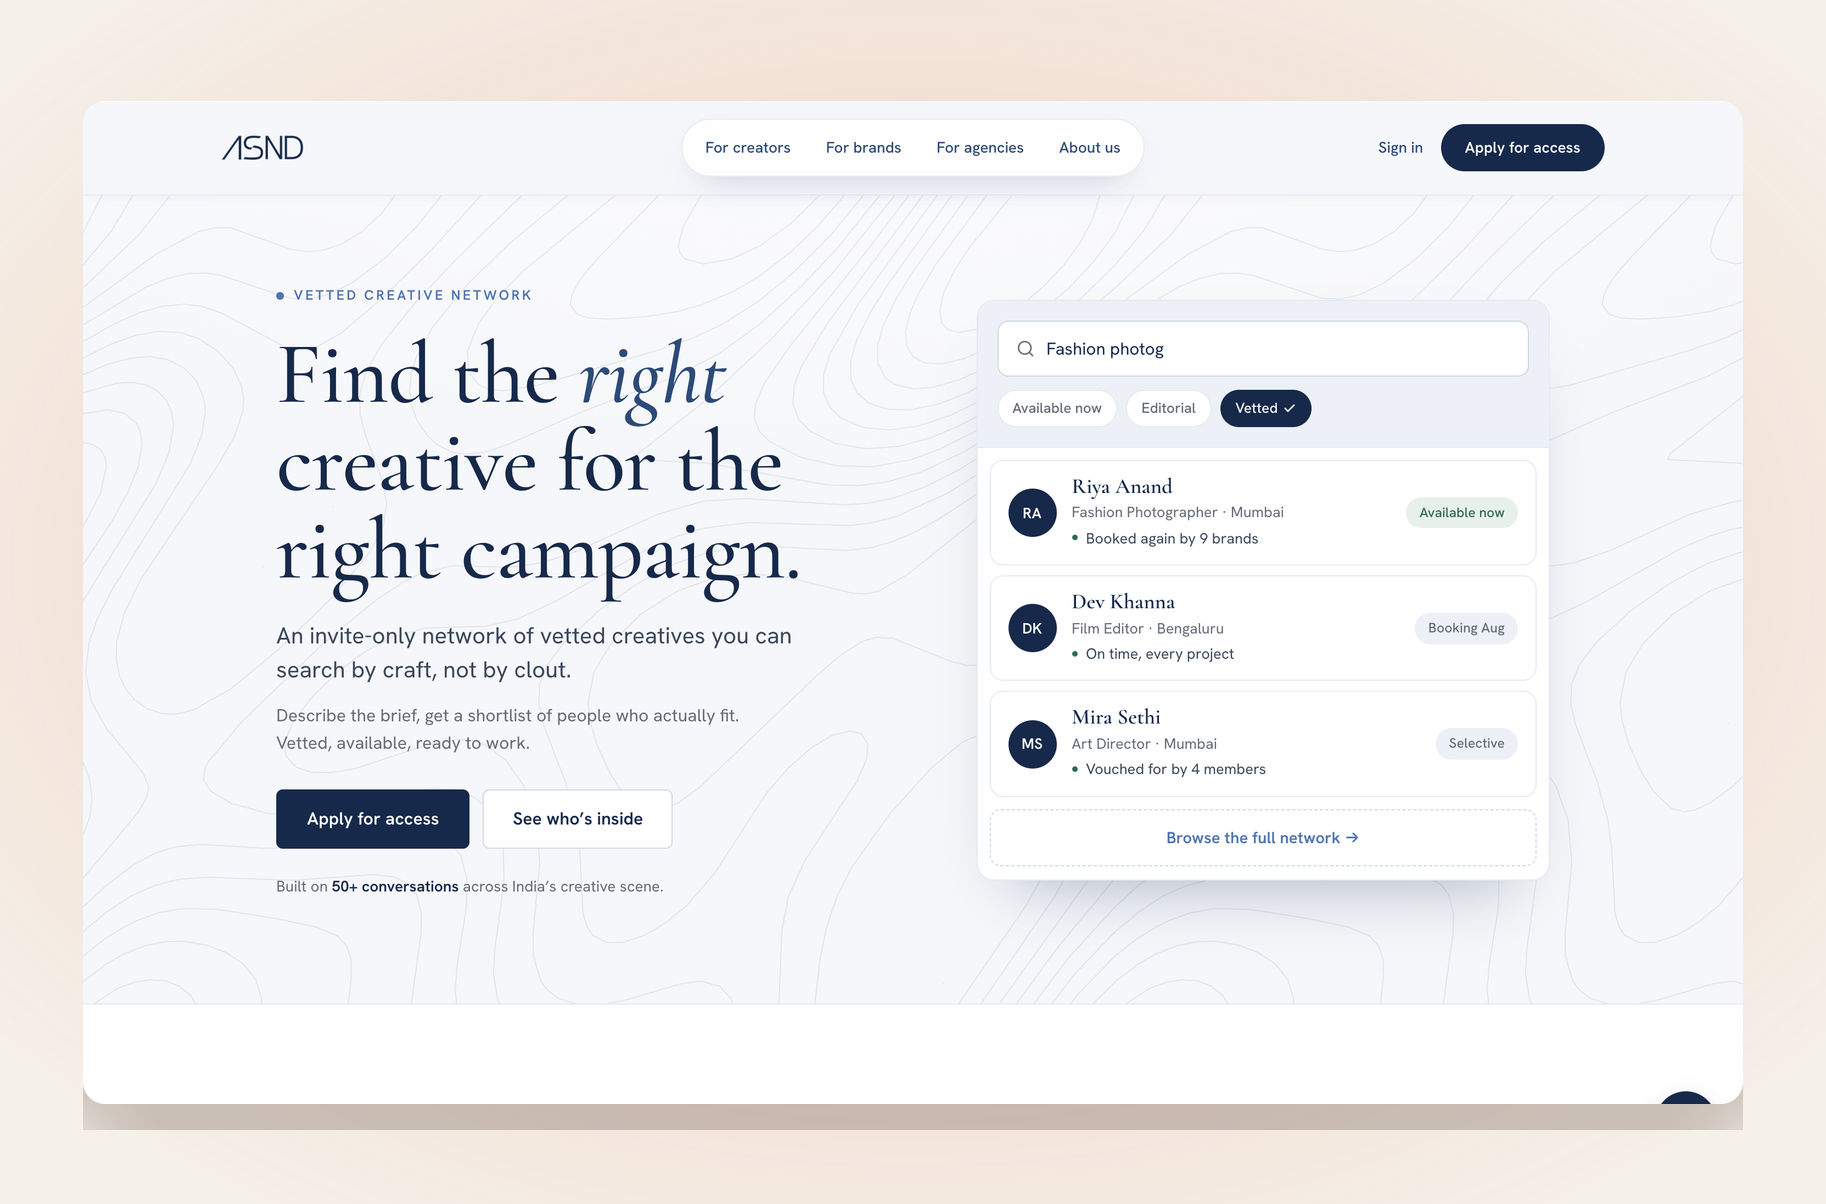
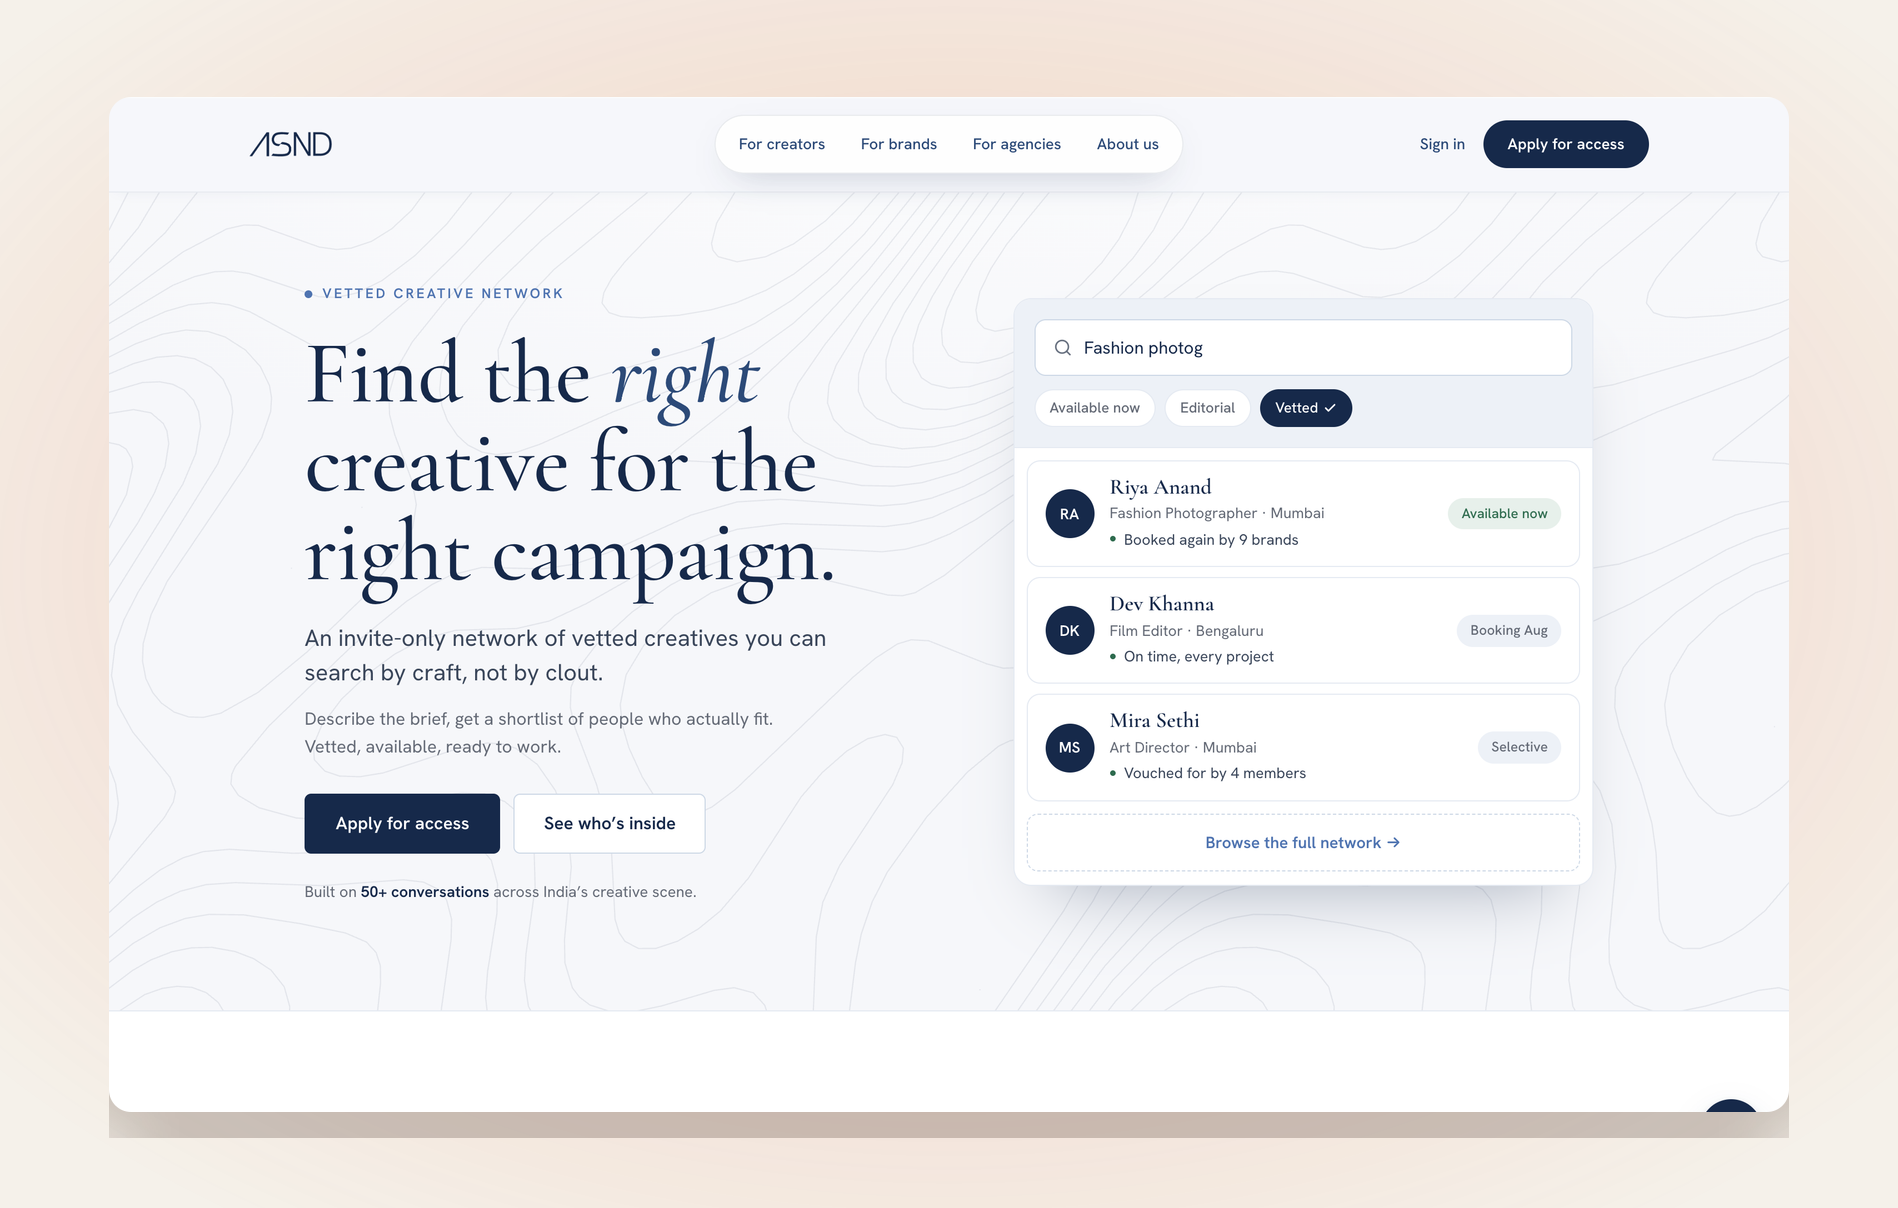
fix(work): bigger ASND hero on the warm glow
Widen the ASND hero media column via a new wideMedia prop on the shared Hero, so
the landing screen reads clearly larger (the real lever the composition margin alone
could not provide). Keep the warm orange glow: on cream a blue glow reads muted and
grayish, while orange pops and matches the other case-study heroes.

diff --git a/components/case-study/Hero.tsx b/components/case-study/Hero.tsx
@@ -13,6 +13,7 @@ export function Hero({
   outcome,
   children,
   media,
+  wideMedia = false,
 }: {
   title: ReactNode;
   role: string;
@@ -24,6 +25,8 @@ export function Hero({
   // Optional hero media, when present the hero becomes a two-column split
   // (text left, media right) and the title scales down to fit the column.
   media?: ReactNode;
+  // Give the media column extra width (for a wide landing screenshot).
+  wideMedia?: boolean;
 }) {
   const meta = [role, year, duration, team].filter(Boolean);
 
@@ -71,7 +74,7 @@ export function Hero({
     <header style={{ padding: "140px 6vw 56px" }}>
       <div className="mx-auto max-w-[1100px]">
         {media ? (
-          <div className="grid grid-cols-1 items-center gap-10 md:grid-cols-[1fr_1.05fr] md:gap-14">
+          <div className={`grid grid-cols-1 items-center gap-10 md:gap-14 ${wideMedia ? "md:grid-cols-[0.82fr_1.35fr]" : "md:grid-cols-[1fr_1.05fr]"}`}>
             <div>{textBlock}</div>
             <div>{media}</div>
           </div>

diff --git a/app/(site)/work/[slug]/page.tsx b/app/(site)/work/[slug]/page.tsx
@@ -368,8 +368,8 @@ export default async function CaseStudyPage({
     <Image
       src="/case-studies/asnd/hero.png"
       alt="The ASND landing: find the right creative for the right campaign, beside a live panel of vetted creatives searchable by craft, not clout."
-      width={1826}
-      height={1204}
+      width={1898}
+      height={1208}
       sizes="(max-width: 768px) 96vw, 52vw"
       priority
       style={{ width: "100%", height: "auto" }}
@@ -386,6 +386,7 @@ export default async function CaseStudyPage({
         team={fm.team}
         outcome={fm.tagline}
         media={heroMedia}
+        wideMedia={isAsnd}
       >
         {isMyCourses && <FigmaHeroButton />}
         {isRoomieMatch && (
